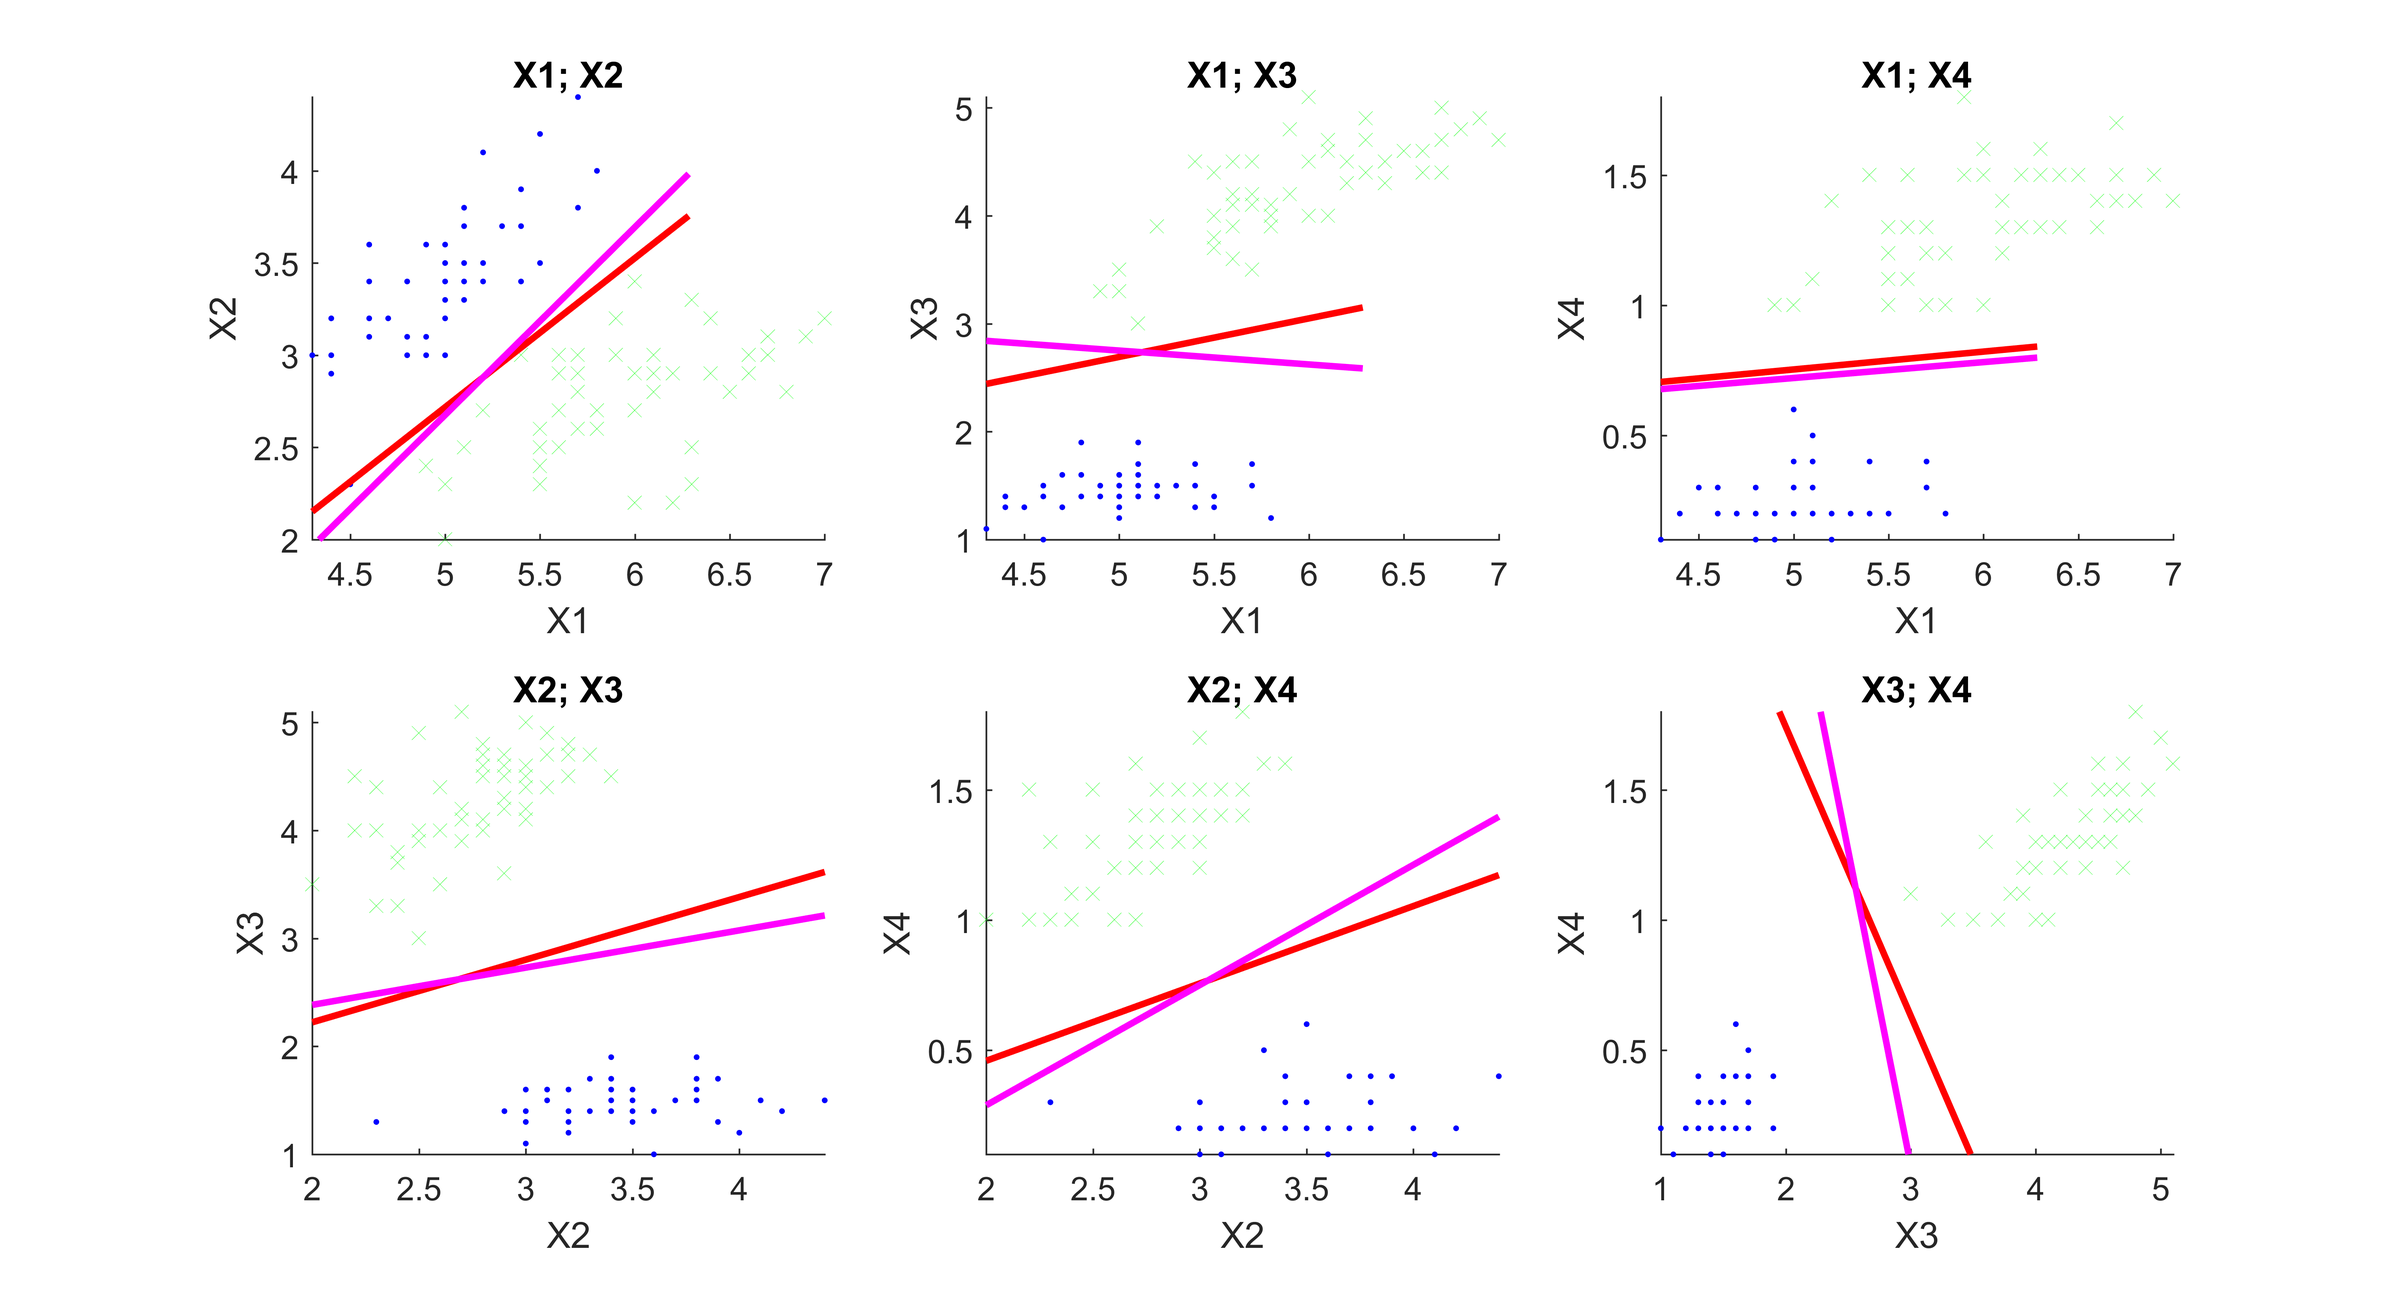
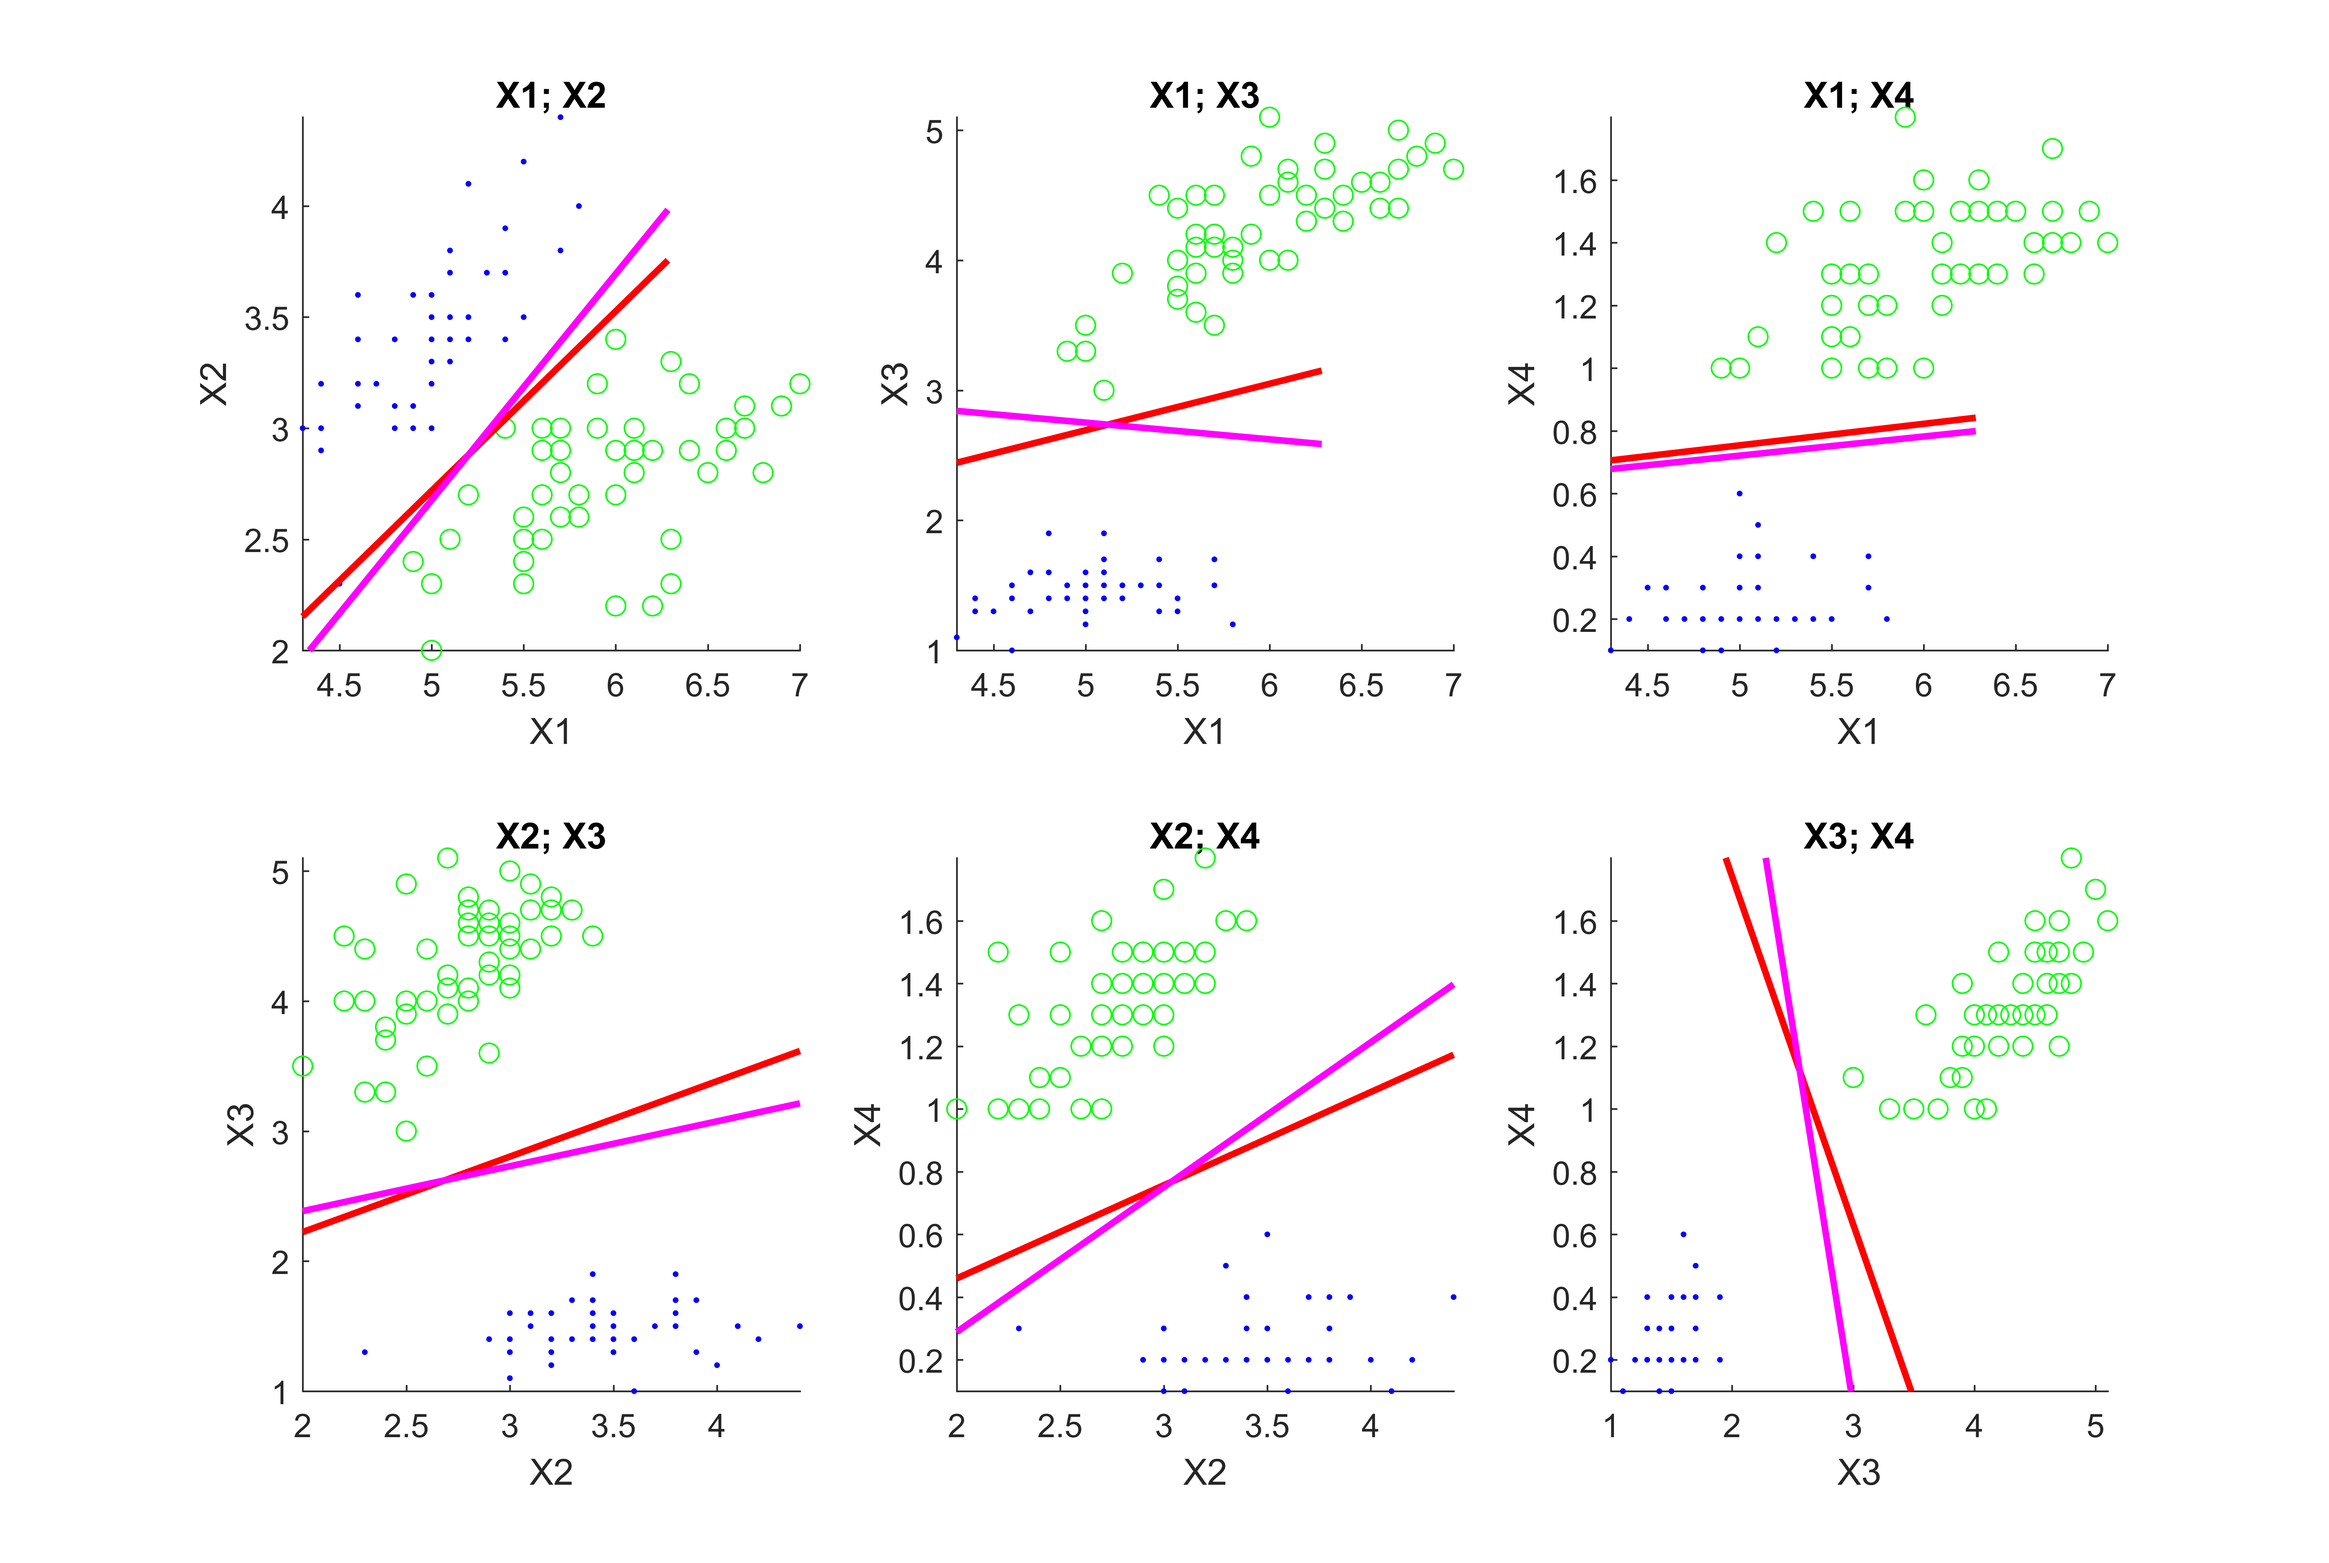
hw3

diff --git a/hw3/hw3-yc2253.tex b/hw3/hw3-yc2253.tex
@@ -90,6 +90,7 @@ Therefore, with stationary distribution $\pi_infty(i) \propto b_i$, this Markov 
 
 \section*{Problem 55}
 
+
 Let $X\in\mathbb{R}^n$ be the data to be classified into binary class $Y \in \{0, 1\}$. The naive Bayes classifier is 
 \begin{equation}
 g(X) = \text{arg}\max_Y P(Y|X)
@@ -136,14 +137,17 @@ where $P(x_i) = P(Y=1|X=x_i)$. Eq. (17) does not have a close form expression so
 \end{split}
 \end{equation}
 
-The binary classification results are shown in Fig. 1 with the naive Bayes and logistic classifiers being the red and magenta lines respectively. 
-
 \begin{figure}
 	\begin{center}
 		\includegraphics[width=6in]{p55.png}
 		\caption{Problem 55: The naive Bayes and logistic classifiers are shown as red and magenta lines.}
 	\end{center}
 \end{figure}
+
+
+The binary classification results are shown in Fig. 1 with the naive Bayes and logistic classifiers being the red and magenta lines respectively. 
+
+
 
 
 \section*{Problem 57}

diff --git a/hw3/p55.m b/hw3/p55.m
@@ -57,7 +57,7 @@ for i = 1:4
         subplot(2,3,k);
         hold all; 
         scatter(X(1:50, 1), X(1:50, 2), 'b.');
-        scatter(X(51:100, 1), X(51:100, 2), 'g.');
+        scatter(X(51:100, 1), X(51:100, 2), 'go');
         h = ezplot(f);
         h.LineWidth = 2.0;
         h.Color='r';
